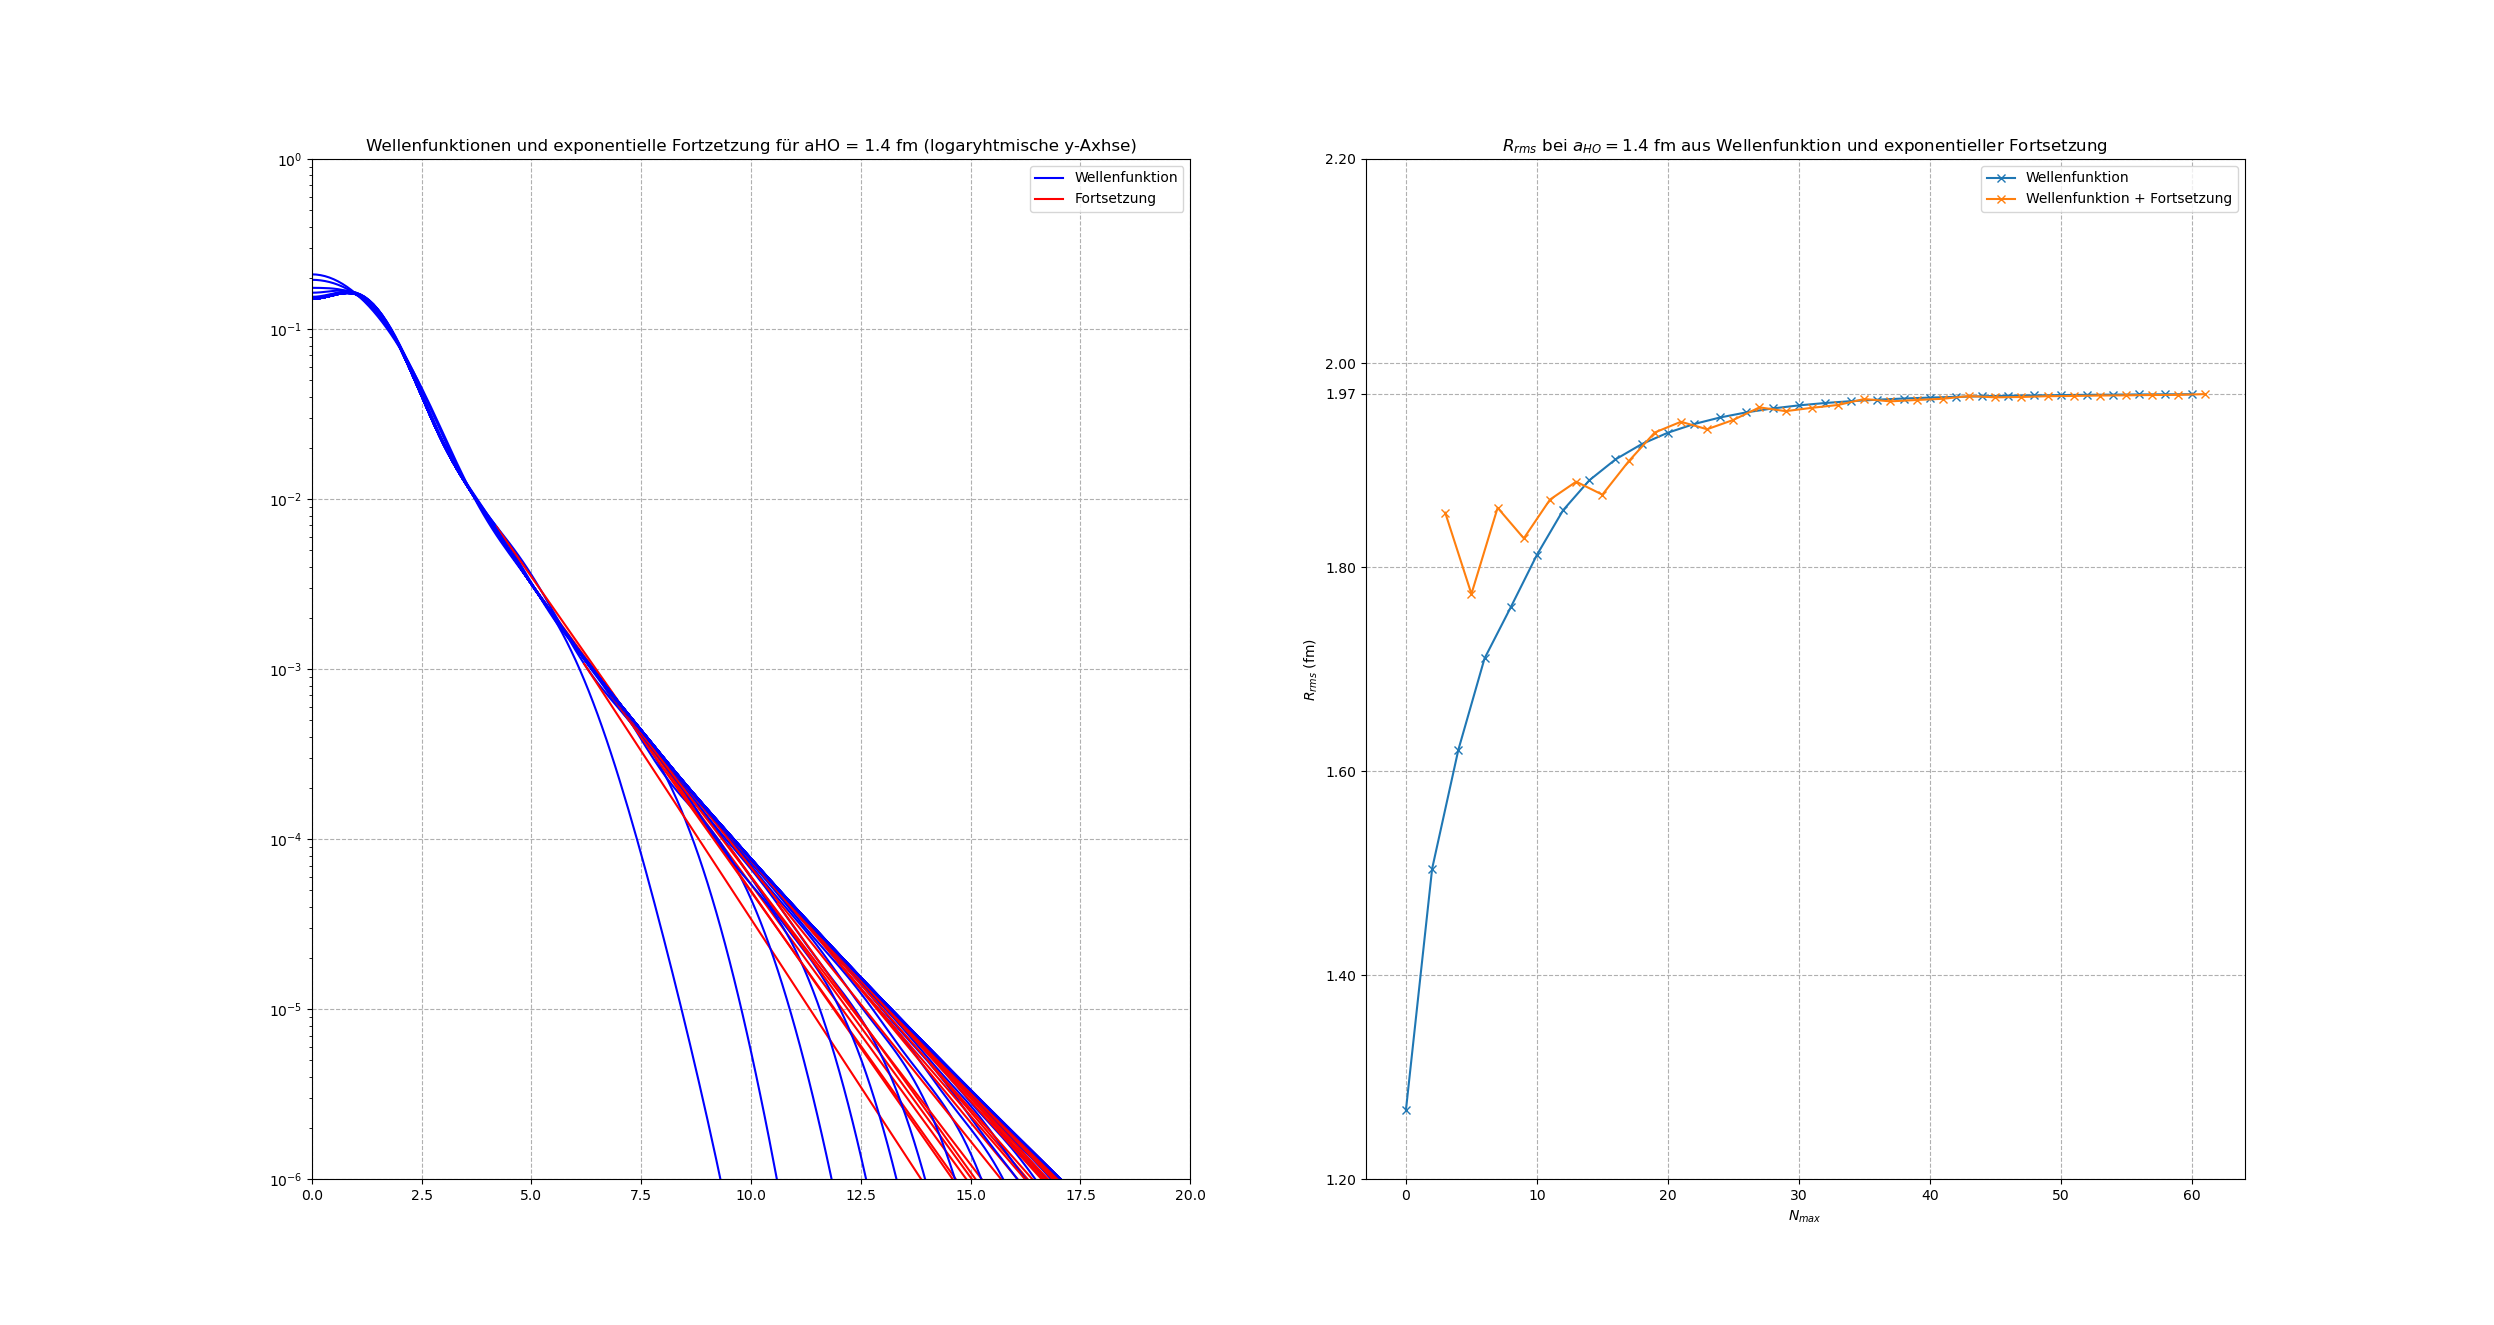
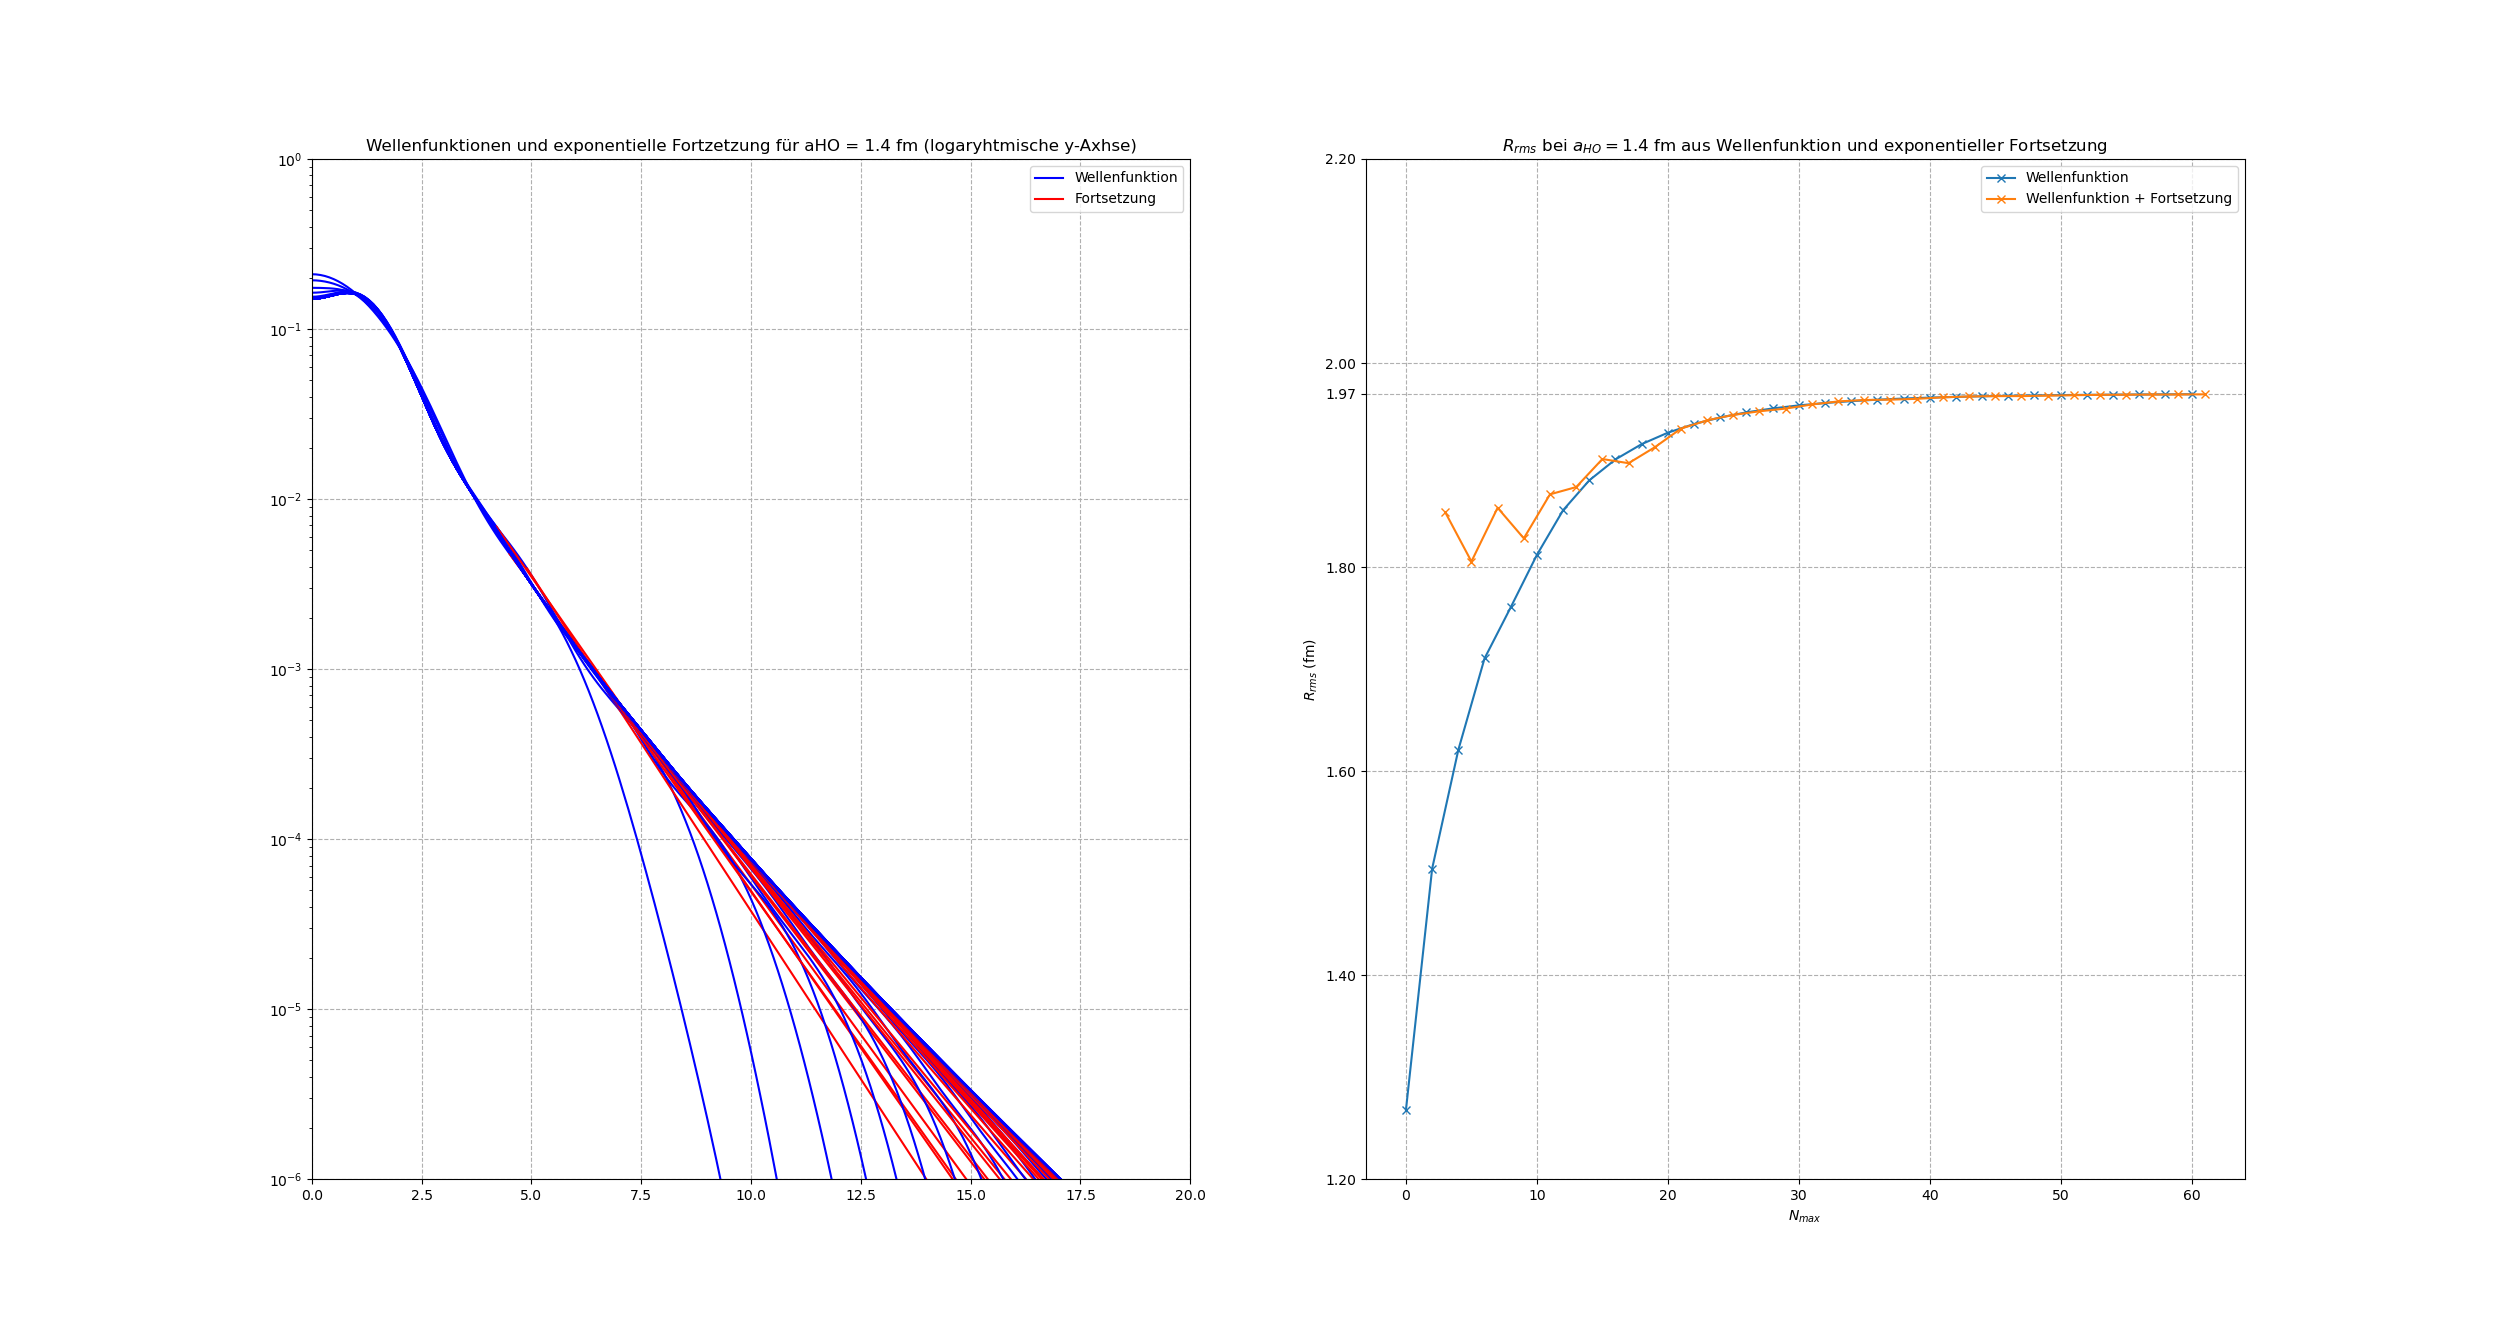
deletet plots with fitpoints | new plots

diff --git a/code/rrms_position_probability_density_continuation_overlapNmax-1.py b/code/rrms_position_probability_density_continuation_overlapNmax-1.py
@@ -78,11 +78,11 @@ def find_cont_par_cut(NNmax, aHO):
     slope = curve_fit(log_model, r_fit, log_density_fit)[0][0]
     
     # Finding a point that has the same slope as the fitted one 
-    d_dr = derivative(r, log_density[2, start_linear_index:], 1)
+    d_dr = derivative(r, log_density[2, min(fit_points_indices):max(fit_points_indices) + 1], 1)
     connection_point = np.array([])
     delta = 10**(-6)
     while connection_point.size == 0:
-        connection_point = r[start_linear_index:][((d_dr > slope - delta) & (d_dr < slope + delta))]
+        connection_point = r[min(fit_points_indices):max(fit_points_indices) + 1][((d_dr > slope - delta) & (d_dr < slope + delta))]
         delta += 10**(-6)
     connection_point = connection_point[0]
     
